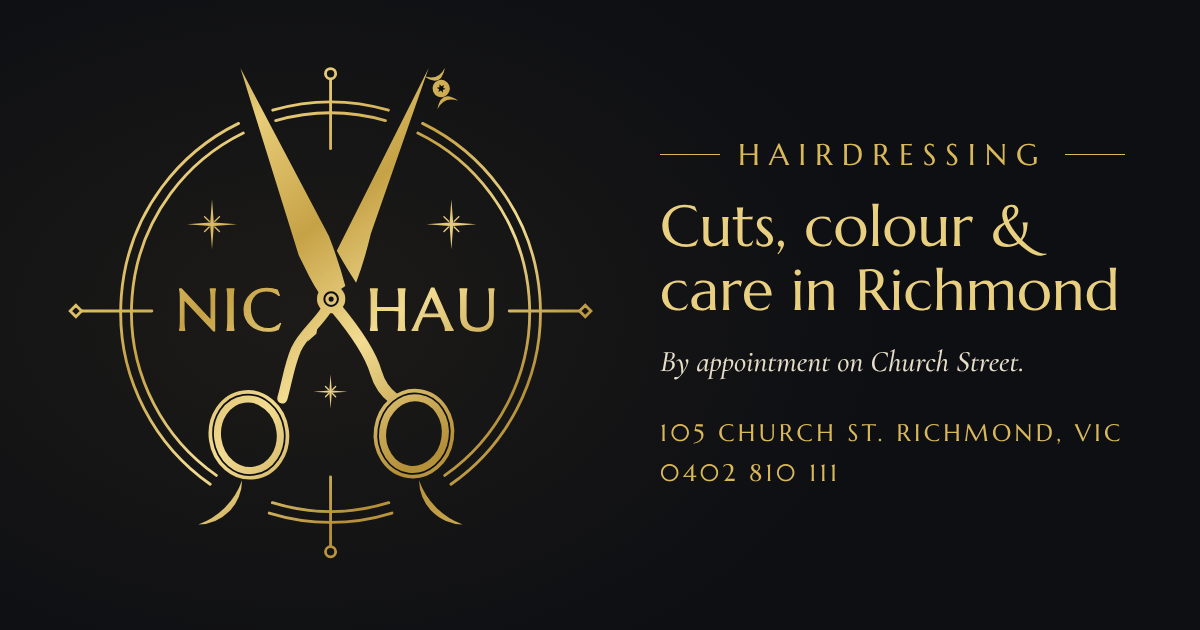
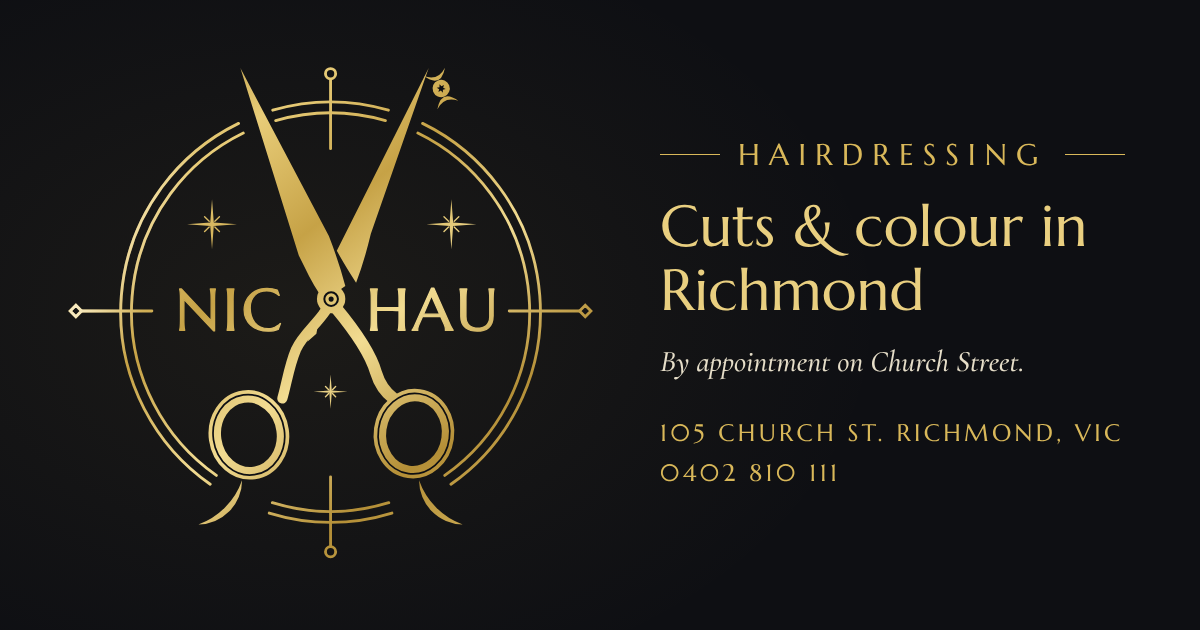
Use real pricing, primary domain and one-word footer name (#2)
Women's cut $130 and men's cut $105; colour from $110 an hour including processing. Removes children's cuts, blow-dry, treatments, extensions and the fixed-price colour list. Site URLs point at www.nichau.me, the footer reads "Nichau Hairdressing", and section titles stay on one line on narrow phones.

Claude-Session: https://claude.ai/code/session_01EBpMwq6kBvkYXmsqoABgT5

Changed region(s): [[0.555, 0.3317, 0.9558, 0.5127], [0.0617, 0.3619, 0.1233, 0.5127]]

diff --git a/index.html b/index.html
@@ -4,17 +4,17 @@
   <meta charset="utf-8">
   <meta name="viewport" content="width=device-width, initial-scale=1, viewport-fit=cover">
   <title>Nic Hau Hairdressing | 105 Church St, Richmond</title>
-  <meta name="description" content="Nic Hau is an independent hair salon at 105 Church St, Richmond, Melbourne. Cuts, colour, balayage and treatments for every hair type. Book online or call 0402 810 111.">
+  <meta name="description" content="Nic Hau is an independent hair salon at 105 Church St, Richmond, Melbourne. Women’s and men’s cuts and colour for every hair type. Book online or call 0402 810 111.">
   <meta name="theme-color" content="#0E0F13">
   <meta name="color-scheme" content="dark">
 
-  <link rel="canonical" href="https://nichau.me/">
+  <link rel="canonical" href="https://www.nichau.me/">
 
   <meta property="og:type" content="website">
-  <meta property="og:url" content="https://nichau.me/">
+  <meta property="og:url" content="https://www.nichau.me/">
   <meta property="og:title" content="Nic Hau Hairdressing">
-  <meta property="og:description" content="Cuts, colour and care at 105 Church St, Richmond. Book online or call 0402 810 111.">
-  <meta property="og:image" content="https://nichau.me/assets/img/og-image.png">
+  <meta property="og:description" content="Cuts and colour at 105 Church St, Richmond. Book online or call 0402 810 111.">
+  <meta property="og:image" content="https://www.nichau.me/assets/img/og-image.png">
   <meta property="og:image:width" content="1200">
   <meta property="og:image:height" content="630">
   <meta property="og:locale" content="en_AU">
@@ -34,9 +34,9 @@
     "@context": "https://schema.org",
     "@type": "HairSalon",
     "name": "Nic Hau",
-    "url": "https://nichau.me/",
-    "image": "https://nichau.me/assets/img/og-image.png",
-    "description": "Independent hair salon for cuts, colour and treatments in Richmond, Melbourne.",
+    "url": "https://www.nichau.me/",
+    "image": "https://www.nichau.me/assets/img/og-image.png",
+    "description": "Independent hair salon for cuts and colour in Richmond, Melbourne.",
     "telephone": "+61 402 810 111",
     "priceRange": "$$",
     "address": {
@@ -93,7 +93,7 @@
            alt="Nic Hau emblem: open scissors inside a ring of stars and crescent moons">
 
       <h1 class="hero__title" id="hero-title">Hairdressing on Church Street, Richmond</h1>
-      <p class="hero__lede">Cuts, colour and care for every length and texture. By appointment at 105&nbsp;Church&nbsp;St.</p>
+      <p class="hero__lede">Cuts and colour for every length and texture. By appointment at 105&nbsp;Church&nbsp;St.</p>
 
       <div class="hero__actions" id="hero-actions">
         <a class="btn btn--foil" href="https://qrc-ai.com/rGX1a" target="_blank" rel="noopener">Book an appointment</a>
@@ -106,82 +106,33 @@
       <p class="section__lede">Every appointment starts with a conversation about how you wear your hair day to day. The cut and colour are planned from there.</p>
 
       <div class="menu">
-        <div class="menu__col">
-          <section class="menu__group" aria-labelledby="menu-cut">
-            <h3 class="menu__heading" id="menu-cut"><svg aria-hidden="true"><use href="#spark"/></svg>Cut &amp; style</h3>
-            <ul class="menu__list">
-              <li class="item">
-                <div class="item__row"><span class="item__name">Women’s cut &amp; style</span><span class="item__leader" aria-hidden="true"></span><span class="item__price"><small>from</small> $95</span></div>
-                <p class="item__note">Consultation, wash, cut and blow-dry finish.</p>
-              </li>
-              <li class="item">
-                <div class="item__row"><span class="item__name">Restyle</span><span class="item__leader" aria-hidden="true"></span><span class="item__price"><small>from</small> $110</span></div>
-                <p class="item__note">A big change in length or shape, with extra time to plan it. Short cuts welcome.</p>
-              </li>
-              <li class="item">
-                <div class="item__row"><span class="item__name">Men’s cut</span><span class="item__leader" aria-hidden="true"></span><span class="item__price"><small>from</small> $60</span></div>
-                <p class="item__note">Scissor or clipper work, wash and style.</p>
-              </li>
-              <li class="item">
-                <div class="item__row"><span class="item__name">Children’s cut</span><span class="item__leader" aria-hidden="true"></span><span class="item__price"><small>from</small> $40</span></div>
-                <p class="item__note">12 and under.</p>
-              </li>
-              <li class="item">
-                <div class="item__row"><span class="item__name">Blow-dry &amp; style</span><span class="item__leader" aria-hidden="true"></span><span class="item__price"><small>from</small> $65</span></div>
-                <p class="item__note">Wash and blow-dry, sleek or with movement.</p>
-              </li>
-            </ul>
-          </section>
+        <section class="menu__group" aria-labelledby="menu-cut">
+          <h3 class="menu__heading" id="menu-cut"><svg aria-hidden="true"><use href="#spark"/></svg>Cuts</h3>
+          <ul class="menu__list">
+            <li class="item">
+              <div class="item__row"><span class="item__name">Women’s cut</span><span class="item__leader" aria-hidden="true"></span><span class="item__price">$130</span></div>
+              <p class="item__note">Consultation, wash, cut and finish.</p>
+            </li>
+            <li class="item">
+              <div class="item__row"><span class="item__name">Men’s cut</span><span class="item__leader" aria-hidden="true"></span><span class="item__price">$105</span></div>
+              <p class="item__note">Consultation, wash, cut and finish.</p>
+            </li>
+          </ul>
+          <p class="menu__aside">Big restyles and heat-processed hair are priced on consultation.</p>
+        </section>
 
-          <section class="menu__group" aria-labelledby="menu-care">
-            <h3 class="menu__heading" id="menu-care"><svg aria-hidden="true"><use href="#spark"/></svg>Care</h3>
-            <ul class="menu__list">
-              <li class="item">
-                <div class="item__row"><span class="item__name">Treatment</span><span class="item__leader" aria-hidden="true"></span><span class="item__price"><small>from</small> $45</span></div>
-                <p class="item__note">Conditioning matched to your hair, added to any appointment.</p>
-              </li>
-              <li class="item">
-                <div class="item__row"><span class="item__name">Extensions</span><span class="item__leader" aria-hidden="true"></span><span class="item__price">On consultation</span></div>
-                <p class="item__note">Book a consultation to plan length, volume and upkeep.</p>
-              </li>
-            </ul>
-          </section>
-        </div>
-
-        <div class="menu__col">
-          <section class="menu__group" aria-labelledby="menu-colour">
-            <h3 class="menu__heading" id="menu-colour"><svg aria-hidden="true"><use href="#spark"/></svg>Colour</h3>
-            <ul class="menu__list">
-              <li class="item">
-                <div class="item__row"><span class="item__name">Regrowth colour</span><span class="item__leader" aria-hidden="true"></span><span class="item__price"><small>from</small> $110</span></div>
-                <p class="item__note">Roots refreshed to match your existing colour.</p>
-              </li>
-              <li class="item">
-                <div class="item__row"><span class="item__name">Global colour</span><span class="item__leader" aria-hidden="true"></span><span class="item__price"><small>from</small> $150</span></div>
-                <p class="item__note">One colour, root to tip.</p>
-              </li>
-              <li class="item">
-                <div class="item__row"><span class="item__name">Half-head foils</span><span class="item__leader" aria-hidden="true"></span><span class="item__price"><small>from</small> $180</span></div>
-                <p class="item__note">Brightness through the top and sides.</p>
-              </li>
-              <li class="item">
-                <div class="item__row"><span class="item__name">Full-head foils</span><span class="item__leader" aria-hidden="true"></span><span class="item__price"><small>from</small> $250</span></div>
-                <p class="item__note">Lightness placed all through the hair.</p>
-              </li>
-              <li class="item">
-                <div class="item__row"><span class="item__name">Balayage</span><span class="item__leader" aria-hidden="true"></span><span class="item__price"><small>from</small> $280</span></div>
-                <p class="item__note">Hand-painted lightness that grows out softly.</p>
-              </li>
-              <li class="item">
-                <div class="item__row"><span class="item__name">Toner &amp; gloss</span><span class="item__leader" aria-hidden="true"></span><span class="item__price"><small>from</small> $60</span></div>
-                <p class="item__note">Adjusts tone and adds shine, often after lightening.</p>
-              </li>
-            </ul>
-          </section>
-        </div>
+        <section class="menu__group" aria-labelledby="menu-colour">
+          <h3 class="menu__heading" id="menu-colour"><svg aria-hidden="true"><use href="#spark"/></svg>Colour</h3>
+          <ul class="menu__list">
+            <li class="item">
+              <div class="item__row"><span class="item__name">Colour, per hour</span><span class="item__leader" aria-hidden="true"></span><span class="item__price"><small>from</small> $110</span></div>
+              <p class="item__note">Colour is charged on time, and processing time is included. A colour that takes two hours starts at $220. Complex colour that needs more product costs more.</p>
+            </li>
+          </ul>
+        </section>
       </div>
 
-      <p class="menu__footnote">Prices are a guide. Long or thick hair and colour corrections take more time and product, so ask for a quote when you book.</p>
+      <p class="menu__footnote">Every head of hair is different, so prices vary from client to client. Ask for a quote when you book.</p>
     </section>
 
     <section class="section studio" id="studio" aria-labelledby="studio-title">
@@ -196,7 +147,7 @@
 
         <aside class="studio__aside" aria-label="At a glance">
           <ul class="stars">
-            <li><svg aria-hidden="true"><use href="#spark"/></svg>Women’s, men’s and children’s cuts</li>
+            <li><svg aria-hidden="true"><use href="#spark"/></svg>Women’s and men’s cuts</li>
             <li><svg aria-hidden="true"><use href="#spark"/></svg>Colour planned around the cut</li>
             <li><svg aria-hidden="true"><use href="#spark"/></svg>Unhurried appointments</li>
             <li><svg aria-hidden="true"><use href="#spark"/></svg>Book online or by phone</li>
@@ -269,7 +220,7 @@
 
   <footer class="footer">
     <img class="footer__emblem" src="assets/img/emblem.svg" width="952" height="930" alt="">
-    <p class="footer__name">Nic Hau Hairdressing</p>
+    <p class="footer__name">Nichau Hairdressing</p>
     <p class="footer__meta">105 Church St, Richmond VIC 3121 · <a href="tel:+61402810111">0402&nbsp;810&nbsp;111</a></p>
     <p class="footer__small">© <span data-year>2026</span> Nic Hau</p>
   </footer>

diff --git a/assets/css/styles.css b/assets/css/styles.css
@@ -337,6 +337,7 @@ p { margin: 0; }
   text-transform: uppercase;
   /* The trailing letter-spacing would push the word off-centre. */
   padding-left: 0.32em;
+  white-space: nowrap;
 }
 .rule-title::before,
 .rule-title::after {
@@ -371,7 +372,7 @@ p { margin: 0; }
   grid-template-columns: repeat(auto-fit, minmax(min(100%, 22rem), 1fr));
   gap: 2.75rem clamp(2.5rem, 6vw, 5rem);
 }
-.menu__col { display: grid; gap: 2.75rem; align-content: start; min-width: 0; }
+.menu__group { min-width: 0; }
 
 .menu__heading {
   display: flex;
@@ -432,6 +433,13 @@ p { margin: 0; }
   color: var(--bone-dim);
   font-size: var(--step--1);
   line-height: 1.5;
+}
+
+.menu__aside {
+  margin-top: 0.9rem;
+  color: var(--bone-dim);
+  font-size: var(--step--1);
+  font-style: italic;
 }
 
 .menu__footnote {
@@ -784,6 +792,9 @@ p { margin: 0; }
 }
 
 @media (max-width: 420px) {
+  .rule-title { gap: 0.7rem; letter-spacing: 0.22em; padding-left: 0.22em; }
+  .rule-title::before,
+  .rule-title::after { min-width: 1.25rem; }
   .masthead .btn--small { padding-inline: 0.9rem; }
   .brand { font-size: 1.05rem; letter-spacing: 0.18em; }
   .hero__actions { display: grid; width: 100%; max-width: 22rem; }

diff --git a/README.md b/README.md
@@ -32,7 +32,7 @@ python3 -m http.server 8000
 
 | What | Where |
 | --- | --- |
-| Prices and services | `index.html`, the `#services` section. Each service is one `<li class="item">`. |
+| Prices and services | `index.html`, the `#services` section. Each service is one `<li class="item">`: women’s cut $130, men’s cut $105, colour from $110 an hour. |
 | Booking link | `index.html`. Replace every `https://qrc-ai.com/rGX1a` (5 places), then regenerate the QR code (below). |
 | Phone number | `index.html`. Replace `tel:+61402810111` and the visible `0402 810 111`. Also update the JSON-LD block in `<head>`. |
 | Hours | `index.html`, the Hours row in the `#visit` section. |
@@ -52,7 +52,6 @@ node qr.mjs "https://your-booking-page"  # QR for a different link
 ## Before launch
 
 - **Booking link.** The QR code on the printed card encodes `https://qrc-ai.com/rGX1a`, a dynamic-QR redirect. The site uses the same link, so it opens the same page as the card. Linking straight to the final booking page skips the redirect.
-- **Prices.** The figures shown are placeholder "from" prices, set from what comparable Richmond salons charge. Replace them with the real price list.
 - **Hours.** Currently "By appointment". Add opening days if there are set hours.
 - **Social links.** No Instagram or Facebook link is included yet.
-- **Domain.** The site is set up for `https://nichau.me` (canonical URL, `og:image`, JSON-LD). Update those three in `<head>` if the domain changes.
+- **Domain.** The site lives at `https://www.nichau.me` (`nichau.me` redirects there). The canonical URL, `og:image` and JSON-LD in `<head>` use that address, so update them if the primary domain changes.
